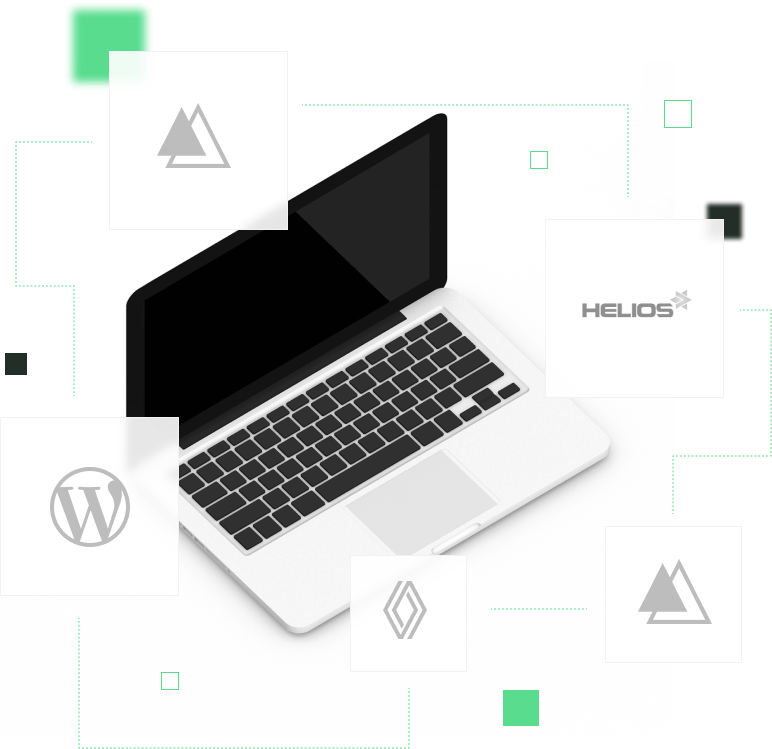
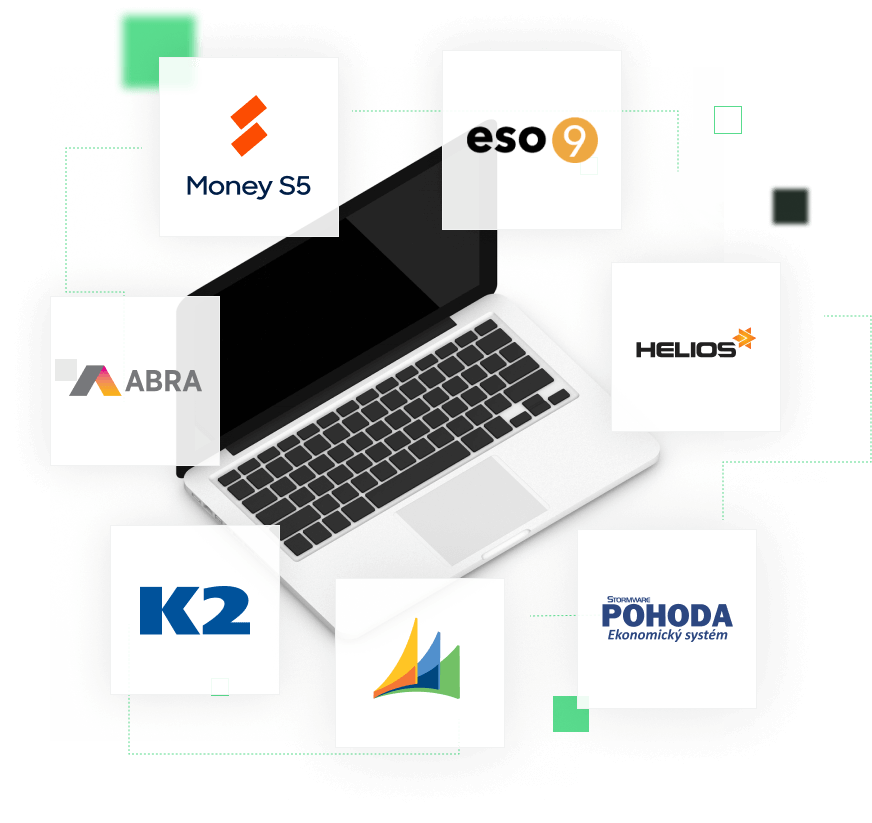
eshopy + konfigurator

diff --git a/pages/e-shopy.jsx b/pages/e-shopy.jsx
@@ -95,25 +95,27 @@ export default function EShopy() {
 			<section className="systemy">
 				<div className="container columns col-2 align-center">
 					<div className="column">
-						<div className="img-wrapper">
-							<Image src="/img/systemy-bg.png" width={771} height={731} alt=""></Image>
-						</div>
+						<Image src="/img/systemy-bg.png" width={821} height={738} alt="" layout='responsive'></Image>
 					</div>
 					<div className="column">
-						<h2>Napojujeme na jakýkoliv systém, který potřebujete</h2>
-						<p>Potřebujete napojit systém, který jste zde nenašli?<br />Kontaktujte nás a najdeme se řešení i pro vás!</p>
+						<h2>Napojíme váš Shoptet na jakýkoli systém pomocí API</h2>
+						<p>Napojení Shoptet na pokladní, informační, účetní a podnikové systémy ERP a CRM<br />
+						Synchronizace dat v reálném čase<br />
+						Možnost doprogramovat vlastní funkcionality</p>
 						<div className="buttons-wrapper">
 							<Link href="/kontakt">
-								<a className="btn btn-secondary">Pojďme najít řešení</a>
+								<a className="btn btn-tertiary">Pojďme najít řešení</a>
 							</Link>
 						</div>
 					</div>
 				</div>
 			</section>
 			<section className="proc-shoptet">
+				<div className="container narrow text-center">
+					<h2>Proč zvolit Shoptet?</h2>
+					<p>Jednička mezi e-commerce platformami v Česku a na na Slovensku s obrovskou podporou a minimálními náklady na provoz.</p>
+				</div>
 				<div className="container">
-					<h2>Proč byste si měli vybrat pro vaše úspěšné podnikání právě Shoptet</h2>
-					<p>Jednička mezi e-commerce platformami v Česku a na Slovensku.</p>
 					<div className="proc-shoptet-block">
 						<div className="bg-img">
 							<Image src="/img/proc-shoptet-bg.svg" width={1369} height={916} alt=""></Image>
@@ -144,20 +146,24 @@ export default function EShopy() {
 			<section>
 				<CoONasRikaji></CoONasRikaji>
 			</section>
-			<section className="container konfigurator">
-				<div className="columns col-2">
-					<div className="column">
-						<h2>Zkuste si nakonfigurovat váš e-shop</h2>
-						<p><strong>Zaberete jo jen chvílku</strong> (pár draganddrop), dáte nám váš email a my vám obratem pošleme nabídku adipiscing elit, 
-							sed do eiusmod tempor incididunt ut labore et dolore magna aliqua. Ut enim ad minim veniam, quis nostrud exercitation ullamco 
-							laboris nisi ut aliquip ex ea commodo consequat.</p>
-						<Link href="#">
-							<a className='btn btn-primary'>Přejít na konfigurátor</a>
-						</Link>
+			<section className="container visible">
+				<div className="konfigurator">
+					<div className="pripravujeme">
+						<Image src="/img/pripravujeme.svg" width={210} height={214} alt=""></Image>
+					</div>
+					<div className="columns col-2">
+						<div className="column">
+							<h2>Zkuste si nakonfigurovat váš Shoptet na míru</h2>
+							<p><strong>Zaberete jo jen chvílku</strong> (pár drag&amp;drop), <strong>dáte nám váš email a my vám obratem pošleme orientační nabídku.</strong> Kromě toho máte jedinečnou příležitost poznat, 
+								na čem závisí a z jakých kroků se skládá tvorba skutečně úspěšného e-shopu na Shoptetu.</p>
+							
+								<a className='btn btn-primary disabled'>Přejít na konfigurátor</a>
+							
+						</div>
 					</div>
 				</div>
 			</section>
-			<section className="container balicky">
+			{/* <section className="container balicky">
 				<div className={`columns col-2-3 reference`}>
 					<div className="column">
 						<h2>3 programy pro shoptet bez starostí</h2>
@@ -244,8 +250,8 @@ export default function EShopy() {
 						</tr>
 					</tbody>
 				</table>
-			</section>
-			<section className="kontakt-form">
+			</section> */}
+			<section className="kontakt-form visible container">
 				<ContactForm></ContactForm>
 			</section>
 		</>

diff --git a/styles/globals.scss b/styles/globals.scss
@@ -229,8 +229,8 @@ h1 {
   line-height: em(82,62);
 }
 h2 {
-  font-size: rem(56);
-  line-height: em(68,56);
+  font-size: rem(48);
+  line-height: em(72,48);
 }
 
 h3 {
@@ -368,6 +368,10 @@ img {
   line-height: 1em;
   padding: em(20);
   transition: all .3s ease-in;
+  &.disabled {
+    opacity: .6;
+    cursor: not-allowed;
+  }
 }
 .btn.btn-primary {
   background-color: #59DC8E;
@@ -450,10 +454,11 @@ main#content {
 .systemy {
   h2 {
     text-align: left;
+    font-size: rem(48);
+    line-height: em(72,48);
   }
-  .img-wrapper {
-    position: relative;
-    left: -180px;
+  .column:last-of-type {
+    padding-left: 20px;
   }
 }
 .proc-shoptet-block {
@@ -468,7 +473,7 @@ main#content {
     border: 1px solid $color-primary;
     &:nth-of-type(2) {
       top: 0;
-      left: 0;
+      left: 100px;
     }
     &:nth-of-type(3) {
       top: 0;
@@ -476,7 +481,7 @@ main#content {
     }
     &:nth-of-type(5) {
       bottom: 90px;
-      left: 90px;
+      left: 150px;
     }
     &:nth-of-type(4) {
       bottom: 120px;
@@ -552,12 +557,25 @@ main#content {
 }
 .konfigurator {
   background-color: rgba($color-primary, .1);
-  padding: 128px 94px;
+  background-image: url(/img/kofigurator-bg.jpg);
+  background-repeat: no-repeat;
+  background-position: right center;
+  padding: 100px;
+  position: relative;
   h2 {
     margin: 0;
   }
   p {
     margin: 26px 0;
+  }
+  .column:first-of-type {
+    padding-right: 50px;
+  }
+  .pripravujeme {
+    position: absolute;
+    top: -16px;
+    left: -12px;
+    pointer-events: none;
   }
 }
 

diff --git a/components/ContactForm/ContactForm.jsx b/components/ContactForm/ContactForm.jsx
@@ -57,7 +57,7 @@ const ContactForm = () => {
     }
 
     return (
-        <div className="container">
+        <>
             <div className={`${styles.formWrapper}`}>
                 <div className="column">
                     <h2>Mám zájem <strong>o spolupráci</strong></h2>
@@ -117,13 +117,13 @@ const ContactForm = () => {
                         <textarea name="zprava" id="zprava" rows="8" placeholder="Váš vzkaz" ref={form.zprava}></textarea>
                         <div className={styles.formRow}>
                             <input type="checkbox" name="consent" id="consent" readOnly/>
-                            <label htmlFor="consent">Odesláním souhlasíte s Podmínkami o zpracovaní osobních údajů</label>
+                            <label htmlFor="consent">Odesláním souhlasíte s Podmínkami zpracovaní osobních údajů</label>
                         </div>
                         <button type="submit" className="btn btn-primary">Odeslat poptávku</button>
                     </form>
                 </div>
             </div>
-        </div>
+        </>
     )
 }
 

diff --git a/components/MainFooter/MainFooter.jsx b/components/MainFooter/MainFooter.jsx
@@ -3,13 +3,18 @@ import Image from 'next/image'
 import Link from 'next/link'
 import styles from './MainFooter.module.scss'
 import ProjektBanner from '../ProjektBanner/ProjektBanner'
+import { useRouter } from 'next/router'
 
 function Footer() {
+  const router = useRouter()
+
   return (
     <>
-      <section className='visible'>
-        <ProjektBanner></ProjektBanner>
-      </section>
+      { router.pathname != "/e-shopy" && (
+        <section className='visible'>
+          <ProjektBanner></ProjektBanner>
+        </section> 
+      )}
       <footer className={styles.footer}>
         <div className={`container ${styles.container}`}>
           <div className='col-4'>

diff --git a/components/Sluzby/Sluzby.jsx b/components/Sluzby/Sluzby.jsx
@@ -54,7 +54,7 @@ const Sluzby = () => {
                 </div>
                 <div className={styles.item}>
                     <Image src="/img/icon/Copy.svg" width={56} height={56} alt=""></Image>
-                    <h3>Pravidelná správa e-shopu</h3>   
+                    <h3>Pravidelná správa Shoptetu</h3>   
                     <div className={styles.texts}>
                         <p>Jde vám hlava kolem z řady popisků a prodejních textů.. a že jich je.</p>
                     </div>

diff --git a/components/ContactForm/ContactForm.module.scss b/components/ContactForm/ContactForm.module.scss
@@ -4,6 +4,9 @@
     margin-bottom: -230px;
     position: relative;
     z-index: 2;
+    max-width: calc(1440px);
+    margin-left: auto;
+    margin-right: auto;
     h2 {
         strong {
             color: $color-primary;

diff --git a/components/MainFooter/MainFooter.module.scss b/components/MainFooter/MainFooter.module.scss
@@ -25,6 +25,7 @@
         display: flex;
         justify-content: space-between;
         flex-wrap: wrap;
+        max-width: calc(1440px + 4rem);
 
         &>div:not(.sluzby)  {
             display: flex;
